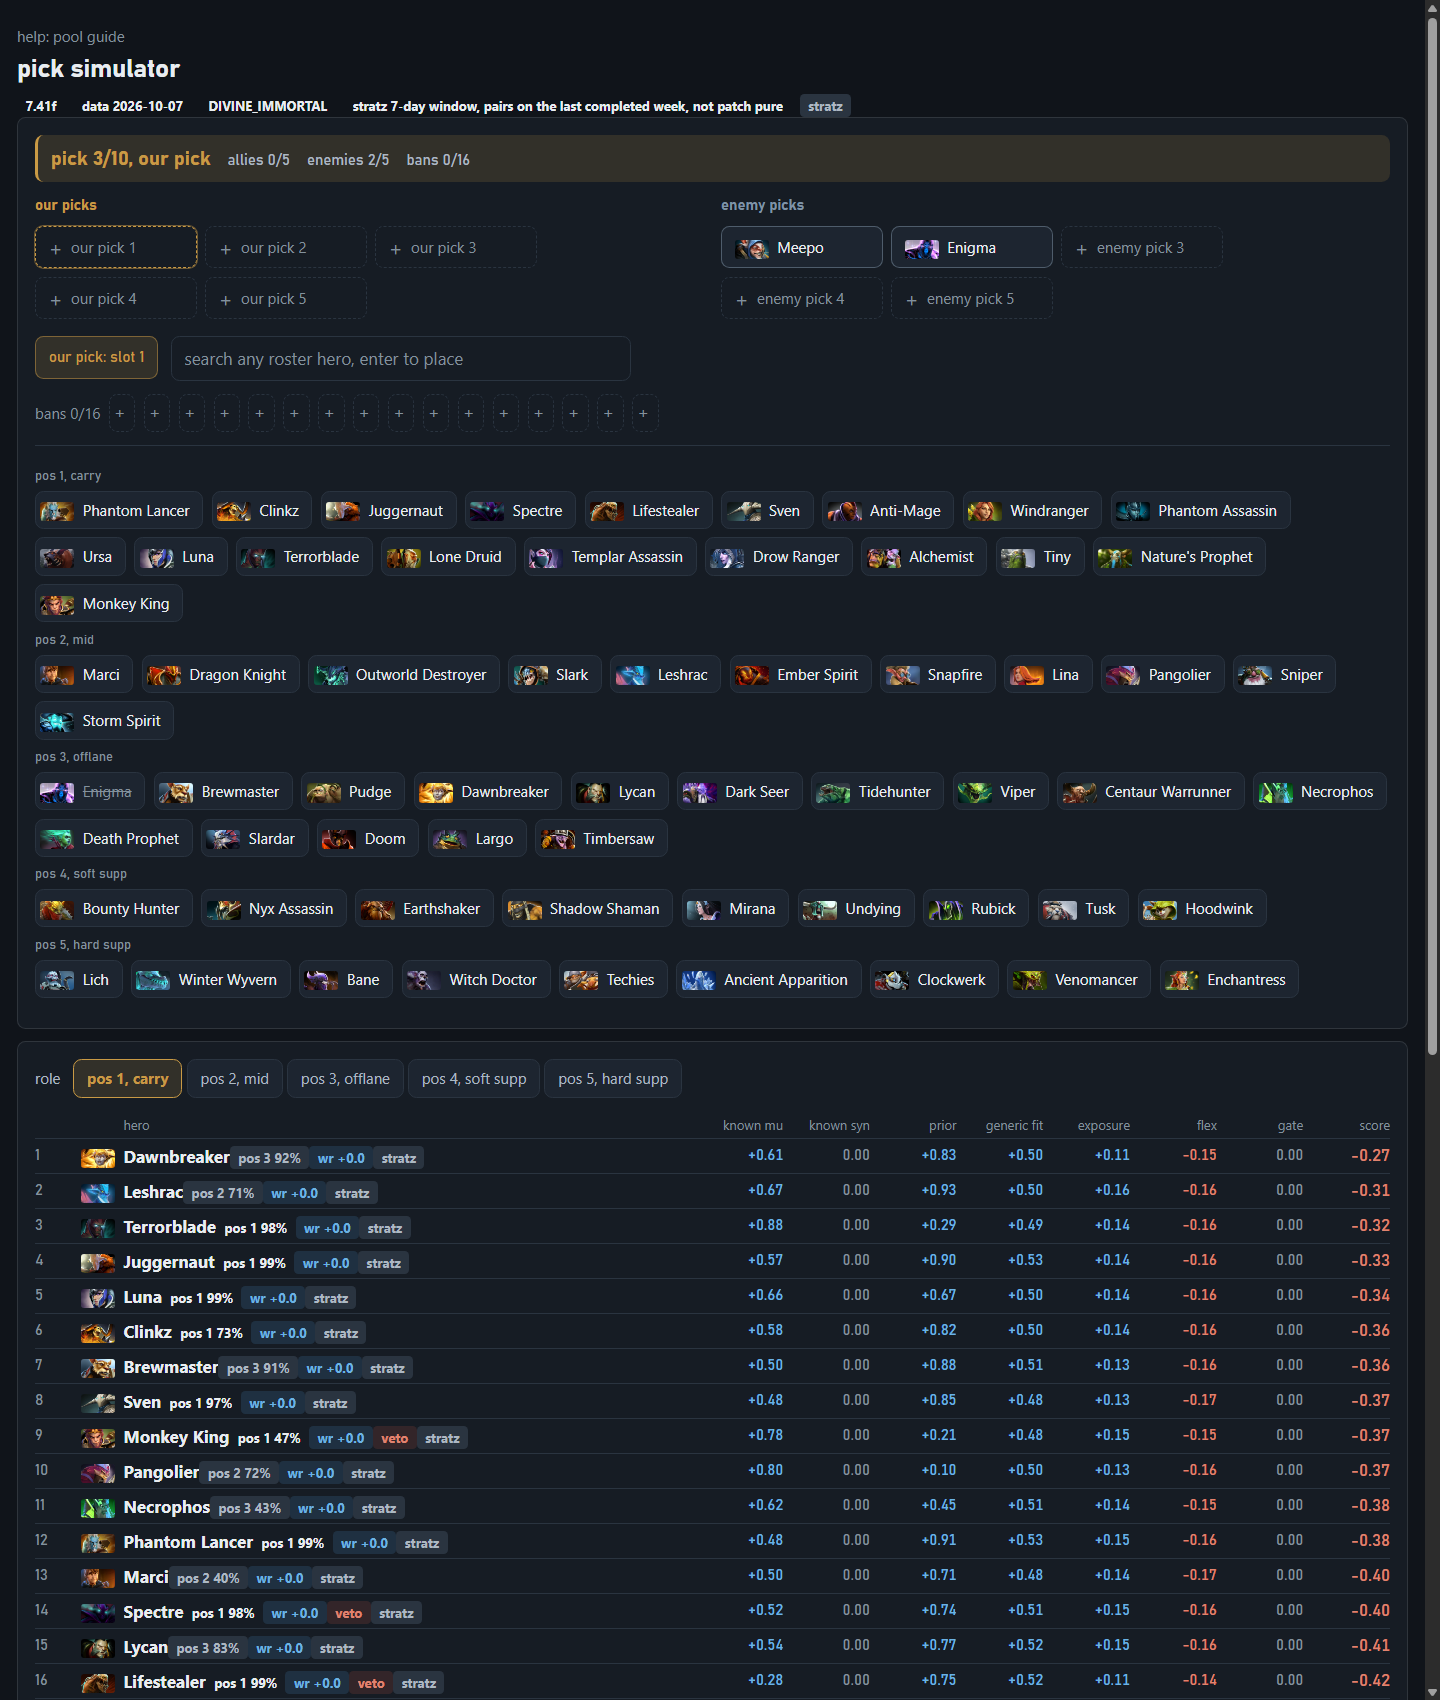
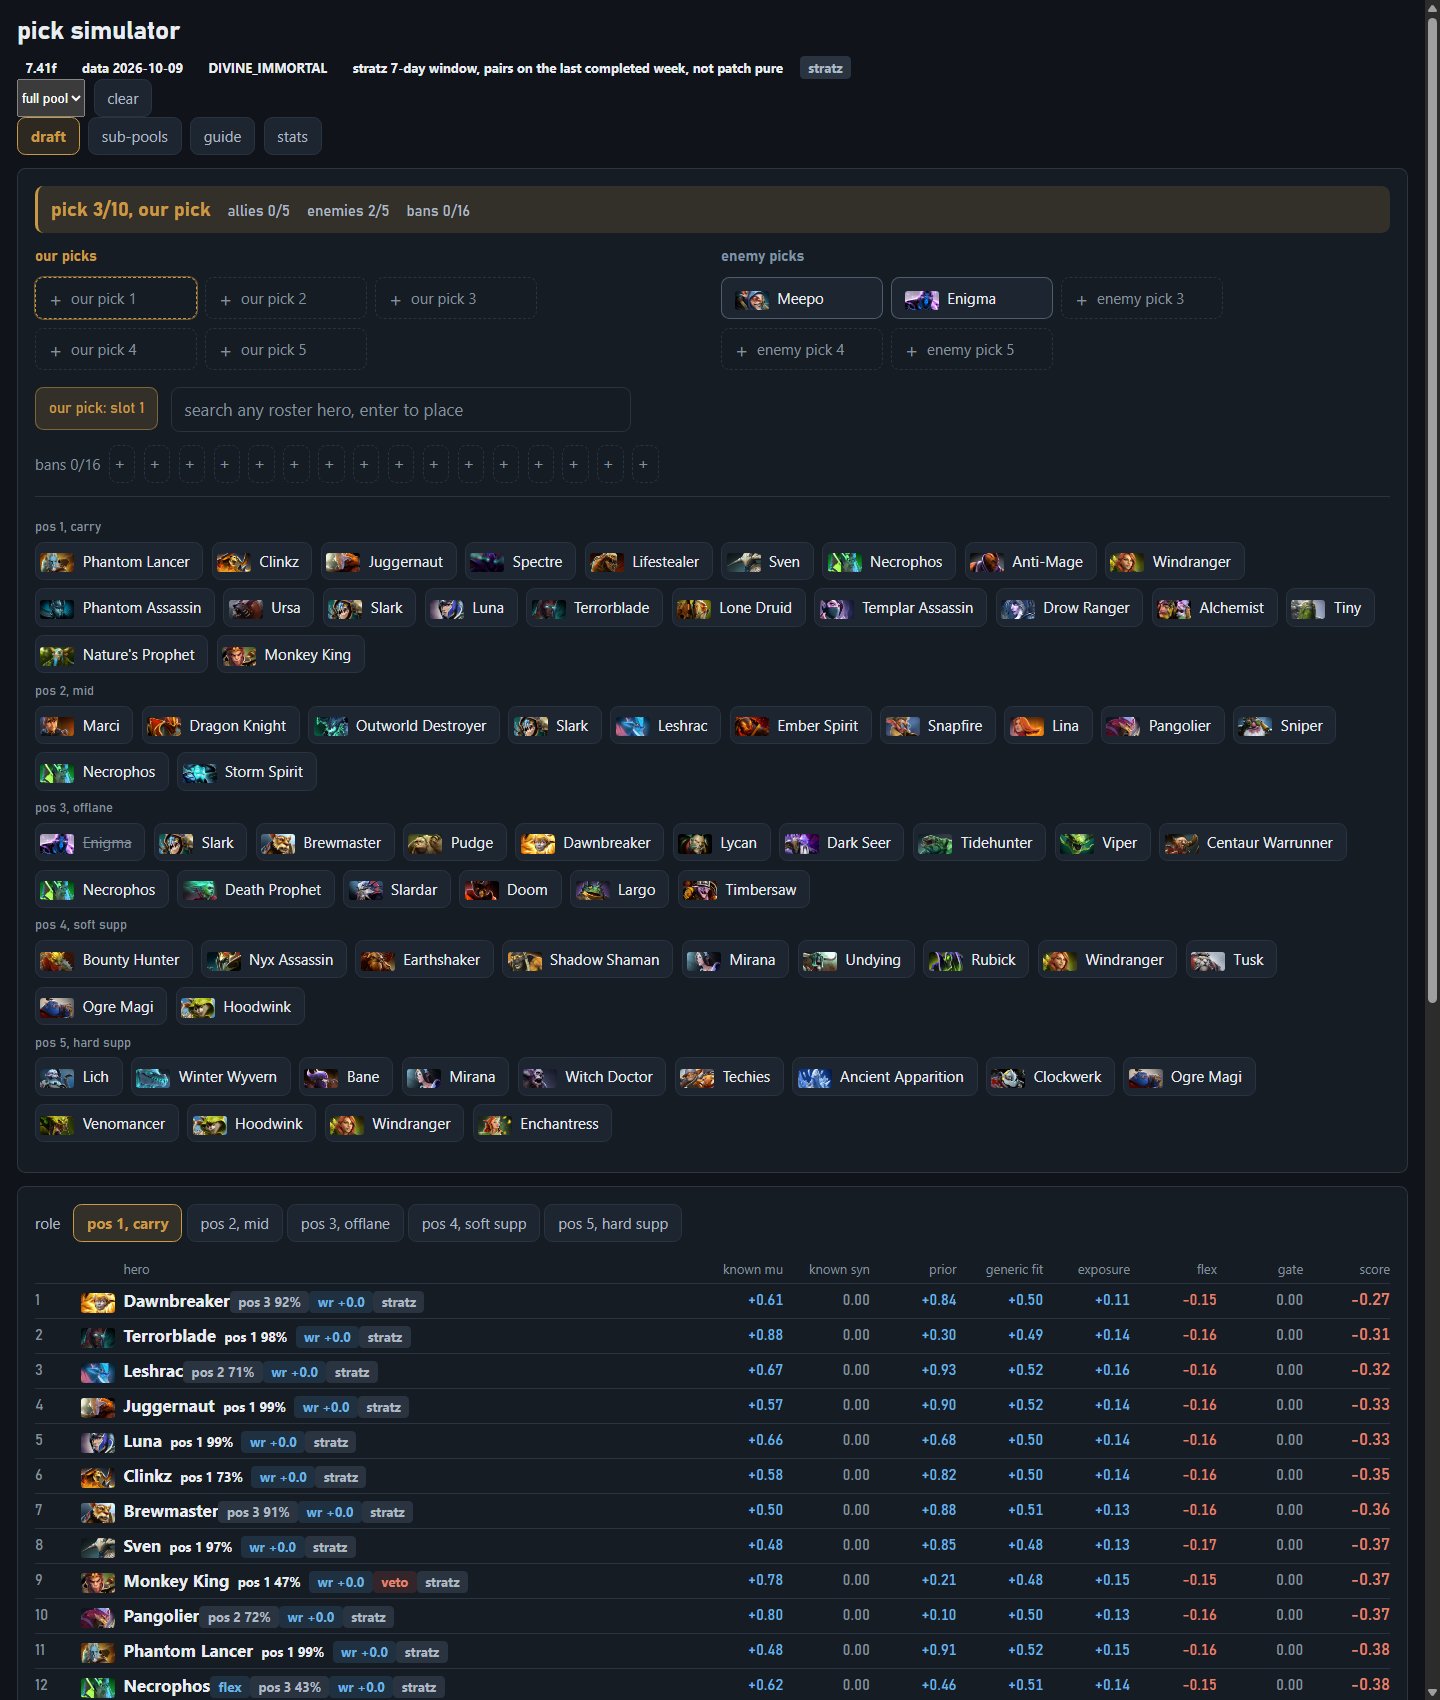
docs(readme): retake the art for the four-tab single page

diff --git a/readme.md b/readme.md
@@ -13,7 +13,7 @@ everything runs on one page, `picker/picker.html`, hash-routed into 4 tabs: draf
 
 place allies, enemies, and bans through the roster search or the pool panels, aim a pick at a specific slot, and the ranking for the selected role recomputes per term after every pick.
 
-![the draft board mid-draft against a visible meepo and enigma, the pool panels for every role, and the candidate ranking below with three veto tags](docs/picker.png)
+![the draft board mid-draft against a visible meepo and enigma, the pool panels for every role, and the candidate ranking below with veto tags](docs/picker.png)
 
 ### sub-pools
 
